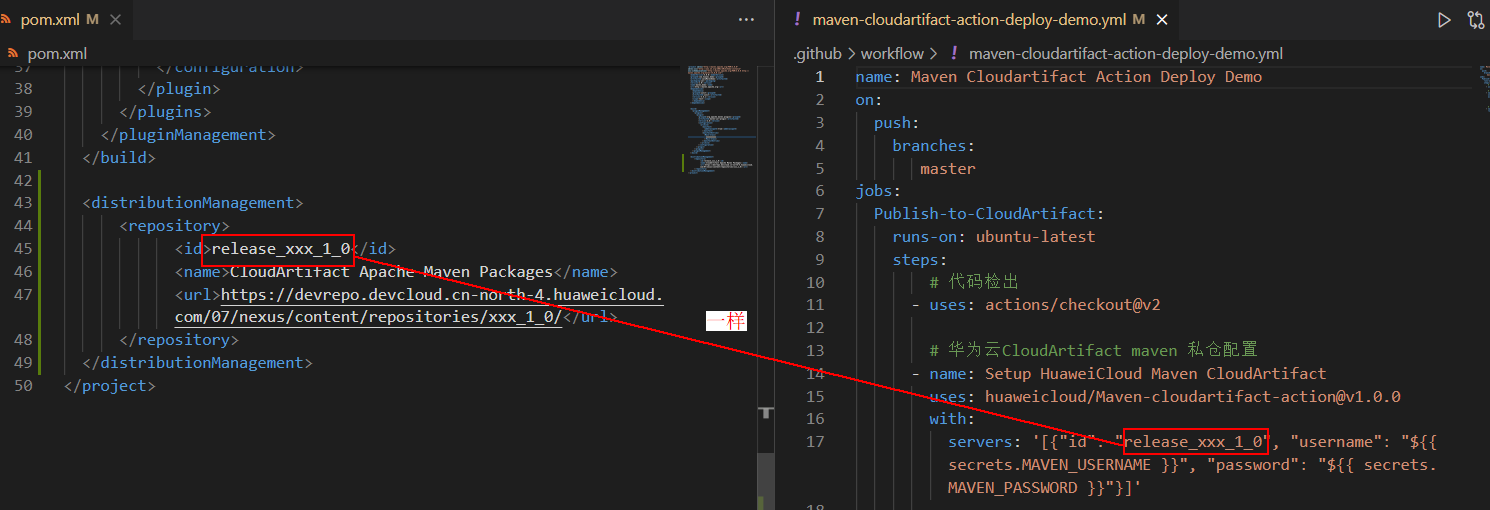
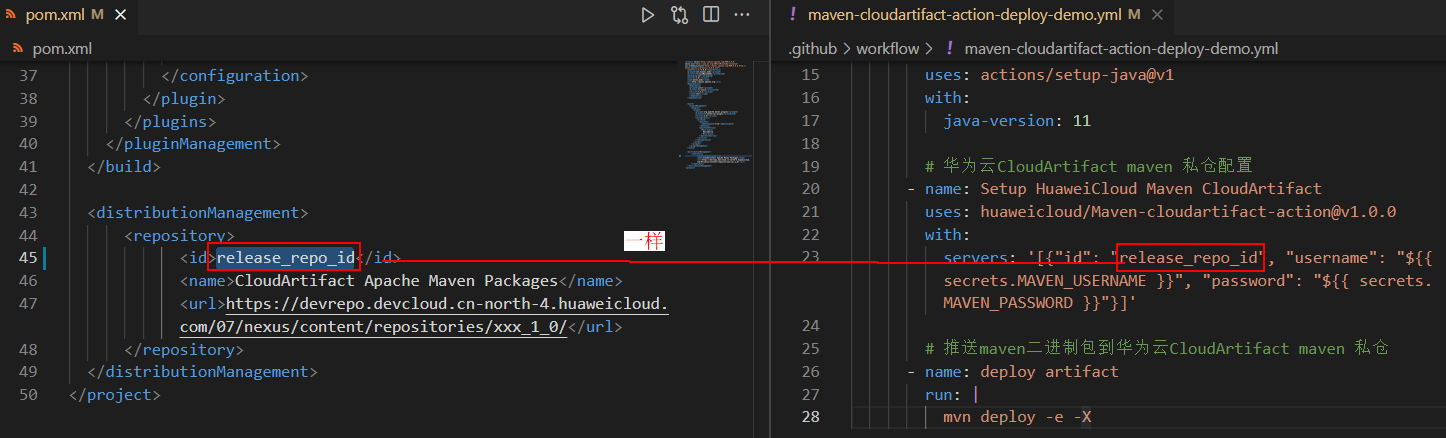
code review
Match-id-40d0216dded03cb83930a1bf3a4e449bc3784ce7

diff --git a/README.md b/README.md
@@ -61,11 +61,17 @@ jobs:
         # 代码检出
       - uses: actions/checkout@v2
 
+        # GitHub Action环境默认java版本为11，可以根据自己项目需求修改java版本
+      - name: Set up JDK 11 for maven build
+        uses: actions/setup-java@v1
+        with:
+          java-version: 11
+
         # 华为云CloudArtifact maven 私仓配置 
       - name: Setup HuaweiCloud Maven CloudArtifact
         uses: huaweicloud/Maven-cloudartifact-action@v1.0.0
         with: 
-          servers: '[{"id": "release_xxx_1_0", "username": "${{ secrets.MAVEN_USERNAME }}", "password": "${{ secrets.MAVEN_PASSWORD }}"}]'
+          servers: '[{"id": "release_repo_id", "username": "${{ secrets.MAVEN_USERNAME }}", "password": "${{ secrets.MAVEN_PASSWORD }}"}]'
     
         # 推送maven二进制包到华为云CloudArtifact maven 私仓
       - name: deploy artifact 
@@ -97,12 +103,18 @@ jobs:
         # 代码检出
       - uses: actions/checkout@v2
 
+        # GitHub Action环境默认java版本为11，可以根据自己项目需求修改java版本
+      - name: Set up JDK 11 for maven build
+        uses: actions/setup-java@v1
+        with:
+          java-version: 11
+
         # 华为云CloudArtifact maven 私仓配置
       - name: Setup HuaweiCloud Maven CloudArtifact
         uses: huaweicloud/Maven-cloudartifact-action@v1.0.0
         with: 
-          servers: '[{"id": "release_xxx_1_0", "username": "${{ secrets.MAVEN_USERNAME }}", "password": "${{ secrets.MAVEN_PASSWORD }}"}]'
-          repositories: '[{ "id": "central", "url": "https://repo1.maven.org/maven2", "releases": { "enabled": "true" }, "snapshots": { "enabled": "false" } },{ "id": "release_xxx_1_0", "url": "https://devrepo.devcloud.cn-north-4.huaweicloud.com/07/nexus/content/repositories/xxx_1_0/", "releases": { "enabled": "true" }, "snapshots": { "enabled": "false" } }]'
+          servers: '[{"id": "release_repo_id", "username": "${{ secrets.MAVEN_USERNAME }}", "password": "${{ secrets.MAVEN_PASSWORD }}"}]'
+          repositories: '[{ "id": "central", "url": "https://repo1.maven.org/maven2", "releases": { "enabled": "true" }, "snapshots": { "enabled": "false" } },{ "id": "release_repo_id", "url": "https://devrepo.devcloud.cn-north-4.huaweicloud.com/07/nexus/content/repositories/{{repp_name}}/", "releases": { "enabled": "true" }, "snapshots": { "enabled": "false" } }]'
 
         # 拉取华为云CloudArtifact maven 私仓二进制包构建工程
       - name: package artifact
